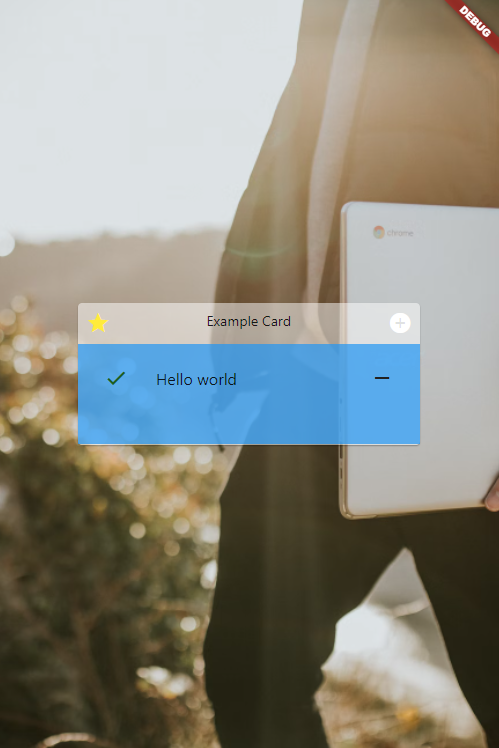
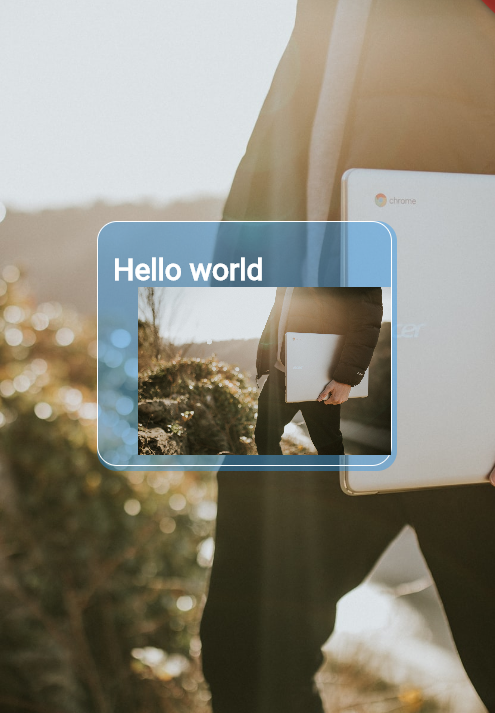
update new version

diff --git a/lib/src/glassmorphism_card.dart b/lib/src/glassmorphism_card.dart
@@ -1,79 +1,74 @@
 import 'package:flutter/material.dart';
 
-class GlassmorphismCard extends StatefulWidget {
+class GlassmorphismCard extends StatelessWidget {
   final double width;
   final double height;
-  final Color color_Header;
-  final Color color_Body;
-  final Widget? leading;
-  final Widget? title;
-  final Widget? trailing;
+  final Color backgroundColor;
+  final Color? titleColor;
+  final Color borderColor;
+  final double borderSize;
+  final Widget title;
   final Widget? body;
-
+  final Alignment alignTitle;
+  final double opacity;
+  final double circular;
   GlassmorphismCard(
-      {this.width = 350,
-      this.height = 150,
-      this.color_Header = Colors.white,
-      this.color_Body = Colors.cyan,
-      this.leading,
-      this.title,
-      this.trailing,
-      this.body});
+      {this.width = 300,
+      this.height = 250,
+      this.opacity = 0.4,
+      this.circular = 20,
+      this.backgroundColor = Colors.white,
+      this.borderColor = Colors.white,
+      this.borderSize = 1,
+      this.titleColor,
+      required this.title,
+      this.body,
+      this.alignTitle = Alignment.bottomLeft});
 
-  @override
-  GlassmorphismCardState createState() => GlassmorphismCardState();
-}
-
-class GlassmorphismCardState extends State<GlassmorphismCard> {
   @override
   Widget build(BuildContext context) {
-    return Container(
-      height: widget.height,
-      width: widget.width,
-      child: Card(
-          color: widget.color_Header.withOpacity(0.5),
-          child: Column(
-            children: [
-              Container(
-                child: Stack(
-                  children: [
-                    Align(
-                      alignment: Alignment.topLeft,
-                      child: Padding(
-                        padding: const EdgeInsets.all(8.0),
-                        child: widget.leading,
-                      ),
-                    ),
-                    Align(
-                      alignment: Alignment.topCenter,
-                      child: Padding(
-                        padding: const EdgeInsets.all(8.0),
-                        child: widget.title,
-                      ),
-                    ),
-                    Align(
-                      alignment: Alignment.topRight,
-                      child: Padding(
-                        padding: const EdgeInsets.all(8.0),
-                        child: widget.trailing,
-                      ),
-                    ),
-                  ],
+    return Stack(
+      children: [
+        Container(
+            height: height,
+            width: width,
+            decoration: BoxDecoration(
+              color: backgroundColor.withOpacity(opacity),
+              borderRadius: BorderRadius.circular(circular),
+            ),
+            child: null),
+        Container(
+            width: width - 5,
+            height: height - 5,
+            decoration: BoxDecoration(
+                borderRadius: BorderRadius.circular(circular),
+                border: Border(
+                    bottom: BorderSide(width: borderSize, color: borderColor),
+                    top: BorderSide(width: borderSize, color: borderColor),
+                    left: BorderSide(width: borderSize, color: borderColor),
+                    right: BorderSide(width: borderSize, color: borderColor))),
+            child: Column(
+              children: [
+                SizedBox(
+                  height: 20,
                 ),
-              ),
-              Expanded(
-                  child: Align(
-                alignment: Alignment.center,
-                child: Container(
-                  width: widget.width,
-                  height: widget.height - 50,
-                  padding: EdgeInsets.symmetric(horizontal: 10, vertical: 10),
-                  color: widget.color_Body.withOpacity(0.7),
-                  child: widget.body,
-                ),
-              )),
-            ],
-          )),
+                Expanded(
+                    flex: 1,
+                    child: Container(
+                      color: titleColor != null
+                          ? titleColor!.withOpacity(opacity)
+                          : null,
+                      child: Align(alignment: alignTitle, child: title),
+                    )),
+                Expanded(
+                    flex: 4,
+                    child: Container(
+                      padding: EdgeInsets.only(bottom: 10),
+                      child: body ?? null,
+                    ))
+              ],
+            )),
+      ],
     );
   }
 }

diff --git a/example/lib/main.dart b/example/lib/main.dart
@@ -46,27 +46,21 @@ class TestState extends State<Test> {
             SafeArea(
               child: Center(
                 child: GlassmorphismCard(
-                  color_Header: Colors.white,
-                  color_Body: Colors.blue,
-                  leading: Icon(
-                    Icons.star,
-                    color: Colors.yellow,
+                  backgroundColor: Colors.blue,
+                  title: Padding(
+                    padding: const EdgeInsets.only(left: 15),
+                    child: Text(
+                      'Hello world',
+                      style: TextStyle(
+                          color: Colors.white,
+                          fontSize: 30,
+                          fontWeight: FontWeight.bold),
+                    ),
                   ),
-                  title: Text('Example Card'),
-                  trailing: Icon(
-                    Icons.add_circle,
-                    color: Colors.white,
-                  ),
-                  body: ListTile(
-                      leading: Icon(
-                        Icons.done,
-                        color: Colors.green[900],
-                      ),
-                      title: Text('Hello world'),
-                      trailing: Icon(
-                        Icons.remove,
-                        color: Colors.grey[900],
-                      )),
+                  body: Align(
+                      alignment: Alignment.bottomRight,
+                      child: Image.network(
+                          'https://images.unsplash.com/photo-1522205408450-add114ad53fe?ixlib=rb-0.3.5&ixid=eyJhcHBfaWQiOjEyMDd9&s=368f45b0888aeb0b7b08e3a1084d3ede&auto=format&fit=crop&w=1950&q=80')),
                 ),
               ),
             ),

diff --git a/README.md b/README.md
@@ -8,7 +8,7 @@ A single card with glassmorphism style have header (with left, center, right ite
 Add this in to your pubspec.yaml
 
 ```dart
-glassmorphismcard: ^0.0.1
+glassmorphismcard: ^0.0.3
 ```
 
 Import it
@@ -20,27 +20,20 @@ Example
 
 ```dart
  GlassmorphismCard(
-                  color_Header: Colors.white,
-                  color_Body: Colors.blue,
-                  leading: Icon(
-                    Icons.star,
-                    color: Colors.yellow,
+                backgroundColor: Colors.blue,
+                title: Padding(
+                  padding: const EdgeInsets.only(left: 15),
+                  child: Text(
+                    'Hello world',
+                    style: TextStyle(
+                        color: Colors.white,
+                        fontSize: 30,
+                        fontWeight: FontWeight.bold),
                   ),
-                  title: Text('Example Card'),
-                  trailing: Icon(
-                    Icons.add_circle,
-                    color: Colors.white,
-                  ),
-                  body: ListTile(
-                      leading: Icon(
-                        Icons.done,
-                        color: Colors.green[900],
-                      ),
-                      title: Text('Hello world'),
-                      trailing: Icon(
-                        Icons.remove,
-                        color: Colors.grey[900],
-                      )),
                 ),
+                body: Align(
+                    alignment: Alignment.bottomRight,
+                    child: Image.network(img)),
+              ),
 ```
 

diff --git a/CHANGELOG.md b/CHANGELOG.md
@@ -3,3 +3,6 @@
 A single card might have header (with left, center, right item) in differ with body (can wrap a child content) by deeper color..
 
 ## 0.0.2
+
+## 0.0.3
+Update new style card
